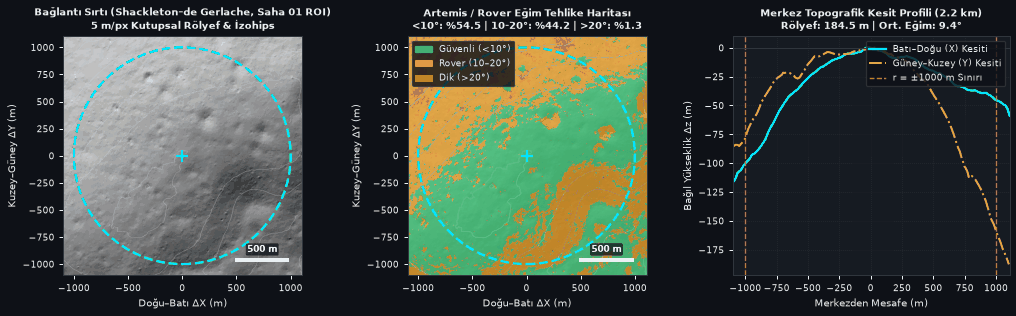
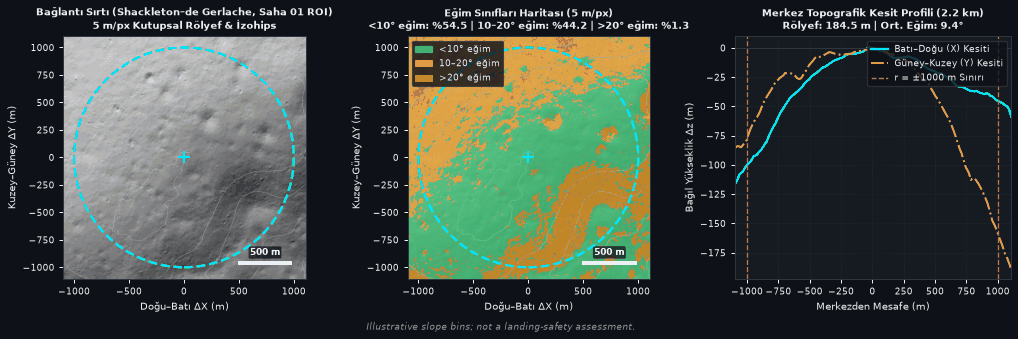
fix(moon): M1 neutral slope-bin labels, metadata keys, and disclaimer footer

diff --git a/src/moon_mars/moon_visual_atlas.py b/src/moon_mars/moon_visual_atlas.py
@@ -1,4 +1,4 @@
-"""Generate 5 m/px LRO LOLA hillshade, slope-hazard, and cross-section visual atlas cards for Lunar South Pole sites."""
+"""Generate 5 m/px LRO LOLA hillshade, slope-bin, and cross-section visual atlas cards for Lunar South Pole sites."""
 from __future__ import annotations
 
 import io
@@ -163,11 +163,11 @@ def _draw_contours(
 
 
 def _add_hazard_legend(ax: plt.Axes) -> None:
-    """Add compact Turkish slope hazard legend in upper-left corner."""
+    """Add compact neutral slope-bin legend in upper-left corner."""
     patches = [
-        mpatches.Patch(color="#2ecc71", label="Güvenli (<10°)"),
-        mpatches.Patch(color="#f39c12", label="Rover (10–20°)"),
-        mpatches.Patch(color="#e74c3c", label="Dik (>20°)"),
+        mpatches.Patch(color="#2ecc71", label="<10° eğim"),
+        mpatches.Patch(color="#f39c12", label="10–20° eğim"),
+        mpatches.Patch(color="#e74c3c", label=">20° eğim"),
     ]
     leg = ax.legend(
         handles=patches,
@@ -179,6 +179,23 @@ def _add_hazard_legend(ax: plt.Axes) -> None:
         labelcolor=TEXT_COLOR,
     )
     leg.set_zorder(10)
+
+
+DISCLAIMER_NOTE = "Illustrative slope bins; not a landing-safety assessment."
+
+
+def _add_disclaimer_footer(fig: plt.Figure) -> None:
+    """Add the required single-line disclaimer footer to a figure."""
+    fig.text(
+        0.5,
+        0.005,
+        DISCLAIMER_NOTE,
+        ha="center",
+        va="bottom",
+        color="#8b949e",
+        fontsize=6.8,
+        style="italic",
+    )
 
 
 def generate_site_atlas(site: MoonSiteSpec) -> dict[str, object]:
@@ -212,7 +229,7 @@ def generate_site_atlas(site: MoonSiteSpec) -> dict[str, object]:
     hazard_rgb = _blend_hazard_rgb(hs, slope_deg)
 
     # 1. Output A: <site_id>_hillshade.png
-    fig_a, ax_a = plt.subplots(figsize=(4.6, 4.6), dpi=95, facecolor=BG_COLOR)
+    fig_a, ax_a = plt.subplots(figsize=(4.6, 4.7), dpi=95, facecolor=BG_COLOR)
     ax_a.imshow(hs, extent=extent_rel, origin="upper", cmap="gray", vmin=0.0, vmax=1.0)
     _draw_contours(ax_a, xs_rel, ys_rel, elev)
     _style_map_axis(
@@ -223,11 +240,12 @@ def generate_site_atlas(site: MoonSiteSpec) -> dict[str, object]:
         f"{name_tr}\nLRO LOLA 5 m/px Rölyef & r=1 km Analiz Çemberi",
         title_size=8.6,
     )
+    _add_disclaimer_footer(fig_a)
     hillshade_path = ATLAS_DIR / f"{site_id}_hillshade.png"
     hs_bytes = _save_compact_png(fig_a, hillshade_path)
 
     # 2. Output B: <site_id>_hazard.png
-    fig_b, ax_b = plt.subplots(figsize=(4.6, 4.6), dpi=95, facecolor=BG_COLOR)
+    fig_b, ax_b = plt.subplots(figsize=(4.6, 4.7), dpi=95, facecolor=BG_COLOR)
     ax_b.imshow(hazard_rgb, extent=extent_rel, origin="upper")
     _draw_contours(ax_b, xs_rel, ys_rel, elev)
     _style_map_axis(
@@ -235,16 +253,17 @@ def generate_site_atlas(site: MoonSiteSpec) -> dict[str, object]:
         xs_rel,
         ys_rel,
         radius_m,
-        f"{name_tr} — Eğim Tehlike Haritası (5 m/px)\n"
-        f"Güvenli (<10°): %{safe_pct:.1f} | Rover (10-20°): %{caution_pct:.1f} | Dik (>20°): %{hazard_pct:.1f}",
+        f"{name_tr} — Eğim Sınıfları Haritası (5 m/px)\n"
+        f"<10° eğim: %{safe_pct:.1f} | 10–20° eğim: %{caution_pct:.1f} | >20° eğim: %{hazard_pct:.1f}",
         title_size=8.0,
     )
     _add_hazard_legend(ax_b)
+    _add_disclaimer_footer(fig_b)
     hazard_path = ATLAS_DIR / f"{site_id}_hazard.png"
     haz_bytes = _save_compact_png(fig_b, hazard_path)
 
     # 3. Output C: <site_id>_atlas.png (3-panel card)
-    fig_c, (ax1, ax2, ax3) = plt.subplots(1, 3, figsize=(11.6, 3.6), dpi=90, facecolor=BG_COLOR)
+    fig_c, (ax1, ax2, ax3) = plt.subplots(1, 3, figsize=(11.6, 3.75), dpi=90, facecolor=BG_COLOR)
 
     ax1.imshow(hs, extent=extent_rel, origin="upper", cmap="gray", vmin=0.0, vmax=1.0)
     _draw_contours(ax1, xs_rel, ys_rel, elev)
@@ -264,9 +283,9 @@ def generate_site_atlas(site: MoonSiteSpec) -> dict[str, object]:
         xs_rel,
         ys_rel,
         radius_m,
-        f"Artemis / Rover Eğim Tehlike Haritası\n"
-        f"<10°: %{safe_pct:.1f} | 10-20°: %{caution_pct:.1f} | >20°: %{hazard_pct:.1f}",
-        title_size=8.2,
+        f"Eğim Sınıfları Haritası (5 m/px)\n"
+        f"<10° eğim: %{safe_pct:.1f} | 10–20° eğim: %{caution_pct:.1f} | >20° eğim: %{hazard_pct:.1f}",
+        title_size=8.0,
     )
     _add_hazard_legend(ax2)
 
@@ -308,12 +327,13 @@ def generate_site_atlas(site: MoonSiteSpec) -> dict[str, object]:
         labelcolor=TEXT_COLOR,
     )
 
-    fig_c.tight_layout(pad=0.9)
+    fig_c.tight_layout(pad=0.9, rect=(0.0, 0.03, 1.0, 1.0))
+    _add_disclaimer_footer(fig_c)
     atlas_path = ATLAS_DIR / f"{site_id}_atlas.png"
     atl_bytes = _save_compact_png(fig_c, atlas_path)
 
     print(
-        f"[ATLAS] {site_id}: <10°=%{safe_pct:.1f}, 10-20°=%{caution_pct:.1f}, >20°=%{hazard_pct:.1f} | "
+        f"[ATLAS] {site_id}: <10°=%{safe_pct:.1f}, 10–20°=%{caution_pct:.1f}, >20°=%{hazard_pct:.1f} | "
         f"hillshade={hs_bytes / 1024:.1f}KB, hazard={haz_bytes / 1024:.1f}KB, atlas={atl_bytes / 1024:.1f}KB"
     )
 
@@ -322,9 +342,10 @@ def generate_site_atlas(site: MoonSiteSpec) -> dict[str, object]:
         "name_tr": name_tr,
         "window_km": 2.2,
         "resolution_m": 5.0,
-        "safe_landing_pct_lt10deg": round(safe_pct, 2),
-        "rover_traversable_pct_10_20deg": round(caution_pct, 2),
-        "steep_hazard_pct_gt20deg": round(hazard_pct, 2),
+        "pct_lt10deg": round(safe_pct, 2),
+        "pct_10_20deg": round(caution_pct, 2),
+        "pct_gt20deg": round(hazard_pct, 2),
+        "note": DISCLAIMER_NOTE,
         "elev_min_m": round(float(stats["elev_min_m"]), 2),
         "elev_max_m": round(float(stats["elev_max_m"]), 2),
         "relief_m": round(float(stats["relief"]), 2),

diff --git a/src/moon_mars/test_moon_pipeline.py b/src/moon_mars/test_moon_pipeline.py
@@ -85,12 +85,13 @@ def test_moon_visual_atlas_files_and_sizes() -> None:
     total_bytes = METADATA_PATH.stat().st_size
     for item in meta_list:
         sid = item["site_id"]
+        assert item.get("note") == "Illustrative slope bins; not a landing-safety assessment."
         pct_sum = (
-            float(item["safe_landing_pct_lt10deg"])
-            + float(item["rover_traversable_pct_10_20deg"])
-            + float(item["steep_hazard_pct_gt20deg"])
+            float(item["pct_lt10deg"])
+            + float(item["pct_10_20deg"])
+            + float(item["pct_gt20deg"])
         )
-        assert np.isclose(pct_sum, 100.0, atol=0.15), f"{sid} hazard pct sum={pct_sum}"
+        assert np.isclose(pct_sum, 100.0, atol=0.15), f"{sid} slope bin pct sum={pct_sum}"
         for suffix in ("hillshade", "hazard", "atlas"):
             png_path = ATLAS_DIR / f"{sid}_{suffix}.png"
             assert png_path.exists(), f"Missing {png_path}"
